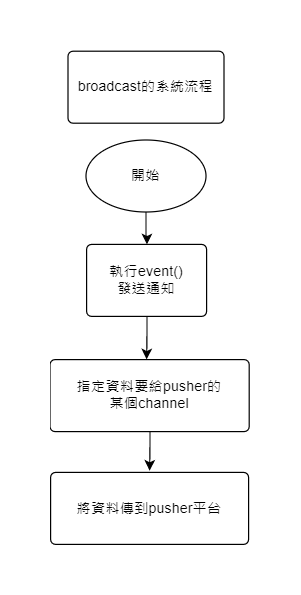
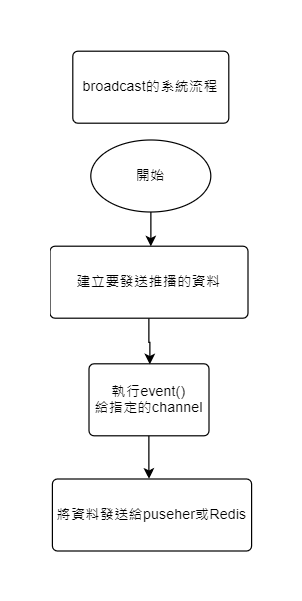
:memo: 更新文章通知與如何與PM溝通、談需求的文件

diff --git a/實做文章功能.md b/實做文章功能.md
@@ -8,7 +8,7 @@
 - 安裝pusher套件
 - 修改env檔案
 - config檔案
-- Redis
+- 安裝Redis套件
 - 安裝laravel echo與pusher channels
 - 實做
 - 問題
@@ -37,41 +37,47 @@
 
 流程圖分別是新增文章、新增文章發通知、刪除文章、新增留言、閱讀文章、已閱讀通知、已閱讀全部、點選通知訊息、發通知的系統流程
 
-![notice1](C:\xampp\htdocs\markdown_note\assets\images\addArticle.png)
+![addArticle](<https://raw.githubusercontent.com/coolgood88142/markdown_note/master/assets/images/addArticle.png>)
 
-![notice1](C:\xampp\htdocs\markdown_note\assets\images\addArticleSend.png)
+![addArticleSend](<https://raw.githubusercontent.com/coolgood88142/markdown_note/master/assets/images/addArticleSend.png>)
 
-![notice1](C:\xampp\htdocs\markdown_note\assets\images\deleteArticle.png)
+![deleteArticle](<https://raw.githubusercontent.com/coolgood88142/markdown_note/master/assets/images/deleteArticle.png>)
 
-![notice1](C:\xampp\htdocs\markdown_note\assets\images\addComment.png)
+![addComment](<https://raw.githubusercontent.com/coolgood88142/markdown_note/master/assets/images/addComment.png>)
 
-![notice1](C:\xampp\htdocs\markdown_note\assets\images\readArticle.png)
+![readArticle](<https://raw.githubusercontent.com/coolgood88142/markdown_note/master/assets/images/readArticle.png>)
 
-![readNotification](C:\xampp\htdocs\markdown_note\assets\images\readNotification.png)
+![readNotification](<https://raw.githubusercontent.com/coolgood88142/markdown_note/master/assets/images/readNotification.png>)
 
-![sendNotificationAll](C:\xampp\htdocs\markdown_note\assets\images\sendNotificationAll.png)
+![sendNotificationAll](<https://raw.githubusercontent.com/coolgood88142/markdown_note/master/assets/images/sendNotificationAll.png>)
 
-![getNotification](C:\xampp\htdocs\markdown_note\assets\images\getNotification.png)
+![getNotification](<https://raw.githubusercontent.com/coolgood88142/markdown_note/master/assets/images/getNotification.png>)
 
-![notice1](C:\xampp\htdocs\markdown_note\assets\images\notice.png)
+![notice1](<https://raw.githubusercontent.com/coolgood88142/markdown_note/master/assets/images/notice.png>)
 
-![broadcast](C:\xampp\htdocs\markdown_note\assets\images\broadcast.png)
+![broadcast](<https://raw.githubusercontent.com/coolgood88142/markdown_note/master/assets/images/broadcast.png>)
 
-![notice2](C:\xampp\htdocs\markdown_note\assets\images\notice2.png)
+![redis](<https://raw.githubusercontent.com/coolgood88142/markdown_note/master/assets/images/redis.png>)
 
-![pusher1](C:\xampp\htdocs\markdown_note\assets\images\pusher1.png)
+![pusher](<https://raw.githubusercontent.com/coolgood88142/markdown_note/master/assets/images/pusher.png>)
 
-![pusher2](C:\xampp\htdocs\markdown_note\assets\images\pusher2.png)
+![notice2](<https://raw.githubusercontent.com/coolgood88142/markdown_note/master/assets/images/notice2.png>)
 
-![pusher3](C:\xampp\htdocs\markdown_note\assets\images\pusher3.png)
+![pusher1](<https://raw.githubusercontent.com/coolgood88142/markdown_note/master/assets/images/pusher1.png>)
+
+![pusher2](<https://raw.githubusercontent.com/coolgood88142/markdown_note/master/assets/images/pusher2.png>)
+
+![pusher3](<https://raw.githubusercontent.com/coolgood88142/markdown_note/master/assets/images/pusher3.png>)
 
 #### 註冊[pusher](https://pusher.com/)帳號
+
+
 
 查詢免費聲名跟付費的價錢
 
 註冊完登入之後，在channel點選Manage，再點選Create App來建立頻道
 
-![channel](C:\xampp\htdocs\markdown_note\assets\images\channel.png)
+![channel](<https://raw.githubusercontent.com/coolgood88142/markdown_note/master/assets/images/channel.png>)
 
 建立完之後，點選剛建立的channel，在點選Getting Started，會有laravel使用pusher的步驟
 
@@ -81,7 +87,7 @@
 composer require pusher/pusher-php-server
 ```
 
-#### 修改env檔案
+修改env檔案
 
 ```bash
 PUSHER_APP_ID=pusher的app id
@@ -105,11 +111,7 @@ MIX_PUSHER_APP_CLUSTER="${PUSHER_APP_CLUSTER}"
 ],
 ```
 
-如果要執行多個channel，可以執行不同的event，分別發送推播
-
-
-
-#### Redis
+#### 安裝Redis套件
 
 如果用Redis的話，要先安裝套件
 
@@ -180,8 +182,8 @@ window.Echo = new Echo({
 
 如果不使用Echo的話，會發生什麼事?
 ------------------------------------------------
-//如果是用socket.io-client換成下面這幾行
 //使用socket.io-client套件，必須透過laravel-echo-server啟動服務
+//socket.io-client需要用window echo來設定哪個port
 
 window.io = require('socket.io-client');
 
@@ -189,9 +191,11 @@ window.Echo = new Echo({
     broadcaster: 'socket.io',
     host: window.location.hostname + ':6001'
 });
+
 ```
 
 ```javascript
+//js範例
 //pusher
  Pusher.logToConsole = true;
 
@@ -215,6 +219,14 @@ window.Echo.channel('article-channel')
     	...              
 });
 ```
+
+#### 如果有兩個channel的話，好處在哪? 有什麼情境
+
+有兩個channel的話，可以依照不同的推播資料，分別發送
+
+例如：A資料是傳個人資料驗證 B資料是個人email通知
+
+可以利用兩種資料，分別在不同的功能，收到之後，做出不同的回應
 
 #### 實做laravel
 
@@ -415,20 +427,6 @@ window.Echo.channel('article-channel')
    ```php
    public function deleteArticles(Request $request)
    {
-       $options = array(
-           'cluster' => env('PUSHER_APP_CLUSTER'),
-           'encrypted' => true
-       );
-           
-       set_time_limit(1200);
-   
-       $pusher = new Pusher(
-           env('PUSHER_APP_KEY'),
-           env('PUSHER_APP_SECRET'),
-           env('PUSHER_APP_ID'),
-           $options
-       );
-       
        foreach (\App\User::cursor() as $user) {
            event(new DeleteArticles($user, $title, $id));
    
@@ -438,8 +436,7 @@ window.Echo.channel('article-channel')
        };
    }
    ```
-
-
+   
    ```php
    //新增CommentController，在使用event執行App\Events\Articles，新增留言時做通知
    public function editComment(Request $request)
@@ -454,24 +451,12 @@ window.Echo.channel('article-channel')
        $authorName = User::where('id', '=', $authorId)->first()->name;
    }
    ```
-
+   
    ```php
    public function addComment(Request $request)
    {
        $user = User::WhereIn('id', $idArray)->get();
        event(new AddArticles($user,  $title . '有一則新留言', $articleId, 'comment'));
-   
-       $options = array(
-           'cluster' => env('PUSHER_APP_CLUSTER'),
-           'encrypted' => true
-       );
-   
-       $pusher = new Pusher(
-           env('PUSHER_APP_KEY'),
-           env('PUSHER_APP_SECRET'),
-           env('PUSHER_APP_ID'),
-           $options
-       );
            
        $pusher->trigger('article-channel', 'App\\Events\\SendMessage', $data);
            
@@ -480,23 +465,11 @@ window.Echo.channel('article-channel')
        $comment->save();
    }
    ```
-
+   
    ```php
    //新增PusherNotificationController，在使用event執行App\Events\SendMessage執行推播
    public function notification()
    {
-       $options = array(
-           'cluster' => env('PUSHER_APP_CLUSTER'),
-           'encrypted' => true
-       );
-   
-       $pusher = new Pusher(
-           env('PUSHER_APP_KEY'),
-   		env('PUSHER_APP_SECRET'),
-   		env('PUSHER_APP_ID'),
-           $options
-       );
-   
        $title = $article->title;
        $id = $article->id;
        $sendNotice = $article->send_notice;

diff --git a/如何跟pm溝通、談需求.md b/如何跟pm溝通、談需求.md
@@ -74,21 +74,37 @@
 
 - 自己想4個情境，自己有遇過的情況
 
-  不要寫範例 要寫情境
+  1. PM一直遵從客戶的意思，什麼都想要新增功能
 
-  1. PM跟我說，客戶想要在系統上，多一個使用單位，但是只有特定作業才會用到
+     例如：PM說客戶反應，想要在產品上新增功能
 
-     
+     問PM為什麼會想要新增? PM回覆我之後，我評估之後認為，對產品上沒有影響，但是總不可能要白做工吧。
 
-  2. PM說客戶反應系統發生錯誤，並且告知我，系統怎麼操作才會發生
+     跟PM說明後，詢問主管看看，是否要將此項目列到增修案，可以跟客戶談。
 
-     
+     如果對產品有影響，回絕PM驗證對產品沒有幫助。
 
-  3. PM說客戶要調整大量資料，需要你幫忙協助
+  2. PM不確認好問題，就詢問我
 
-     
+     例如：PM說客戶在上傳檔案沒反應，要我協助處理
 
-  4. PM說客戶希望，報表格式換成他們想要的格式，並且寄一份新的報表格式給我
+     問PM是在哪個時間點? 是否有畫面可以提供? 客戶上傳哪些檔案?
+  
+     跟PM說明後，請PM跟客戶詢問，在協助客戶處理問題。
+  
+  3. PM說客戶要調整資料
+  
+     例如：問PM客戶為什麼要調整資料? 主管有同意嗎? 
+  
+     評估調整資料後，會不會對產品有影響，如果有的話，確認有沒有別的方法，可以改善。
+  
+     主管同意的話，請PM跟客戶說調整資料完成後，在回覆客戶。
+  
+  4. PM問我客戶的怎麼在系統上操作，才會有資料
+  
+     例如：PM對產品不熟，想要問整個操作流程
+  
+     回覆PM依照不同的使用者，個別說明有不同種的情境
   
      
 
@@ -98,11 +114,23 @@
 
   新增功能的溝通SOP
 
-  所有項目的SOP都列出，至少5個
+  bug的溝通SOP
 
-  
+  詢問進度的溝通SOP
 
-  ![pm](C:\xampp\htdocs\markdown_note\assets\images\pm.png)
+  不了解問題的溝通SOP
+
+  調整資料的溝通SOP
+
+  ![pm](<https://raw.githubusercontent.com/coolgood88142/markdown_note/master/assets/images/pm.png>)
+
+  ![bug](<https://raw.githubusercontent.com/coolgood88142/markdown_note/master/assets/images/bug.png>)
+
+  ![schedule](<https://raw.githubusercontent.com/coolgood88142/markdown_note/master/assets/images/schedule.png>)
+
+  ![PMquestion](<https://raw.githubusercontent.com/coolgood88142/markdown_note/master/assets/images/PMquestion.png>)
+
+  ![updateData](<https://raw.githubusercontent.com/coolgood88142/markdown_note/master/assets/images/updateData.png>)
 
 - 說明
 
